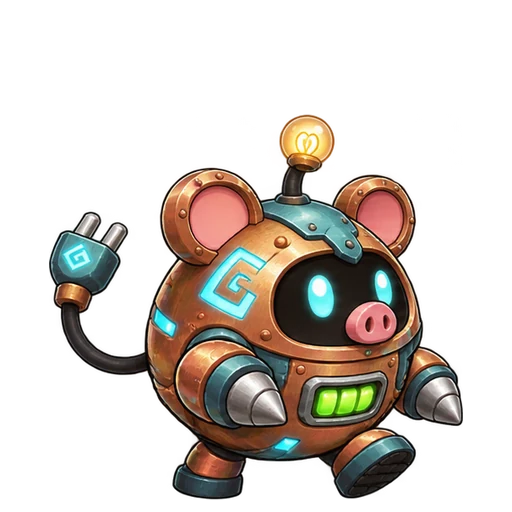
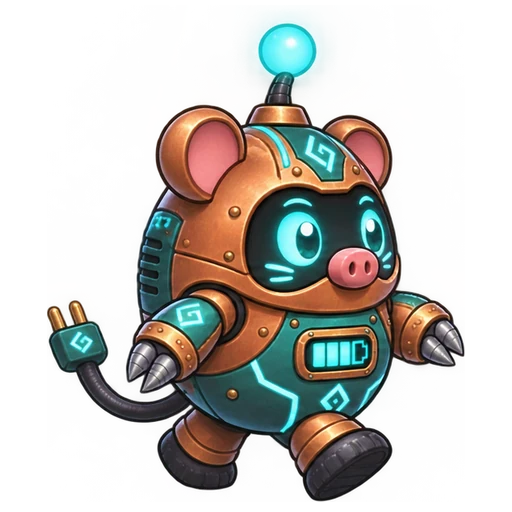
Digy: new walk frames (teal bulb)
Claude-Session: https://claude.ai/code/session_01PGxfpcX8yQ2dVm6AUd14bJ

diff --git a/game.js b/game.js
@@ -21162,7 +21162,7 @@ __eocLoaded = 50;
      (3 energy), comes out dirty with a haul for your vault, cleans himself and goes back to charge.
    · Active / Resting switch and renaming on the 🐾 Pets page.
    ===================================================================== */
-var DIGY_V = "2";   // bump when a Digy picture changes (browser cache)
+var DIGY_V = "3";   // bump when a Digy picture changes (browser cache)
 var DIGY_PRICE = { diamond: 50, ruby: 10 }, DIGY_LV = 3;   // 😊 Friendly with the Kragg
 var DIGY_FRAMES = ["idle-1", "idle-2", "walk-1", "walk-2", "walk-3", "walk-4", "dig-start", "dig-1", "dig-2", "dig-deep", "emerge", "dirty",
   "clean-1", "clean-2", "clean-3", "charge-low-1", "charge-low-2", "charge-mid", "charge-full", "wake", "happy", "petted", "annoyed"];

diff --git a/js/36b-digy.js b/js/36b-digy.js
@@ -7,7 +7,7 @@
      (3 energy), comes out dirty with a haul for your vault, cleans himself and goes back to charge.
    · Active / Resting switch and renaming on the 🐾 Pets page.
    ===================================================================== */
-const DIGY_V = "2";   // bump when a Digy picture changes (browser cache)
+const DIGY_V = "3";   // bump when a Digy picture changes (browser cache)
 const DIGY_PRICE = { diamond: 50, ruby: 10 }, DIGY_LV = 3;   // 😊 Friendly with the Kragg
 const DIGY_FRAMES = ["idle-1", "idle-2", "walk-1", "walk-2", "walk-3", "walk-4", "dig-start", "dig-1", "dig-2", "dig-deep", "emerge", "dirty",
   "clean-1", "clean-2", "clean-3", "charge-low-1", "charge-low-2", "charge-mid", "charge-full", "wake", "happy", "petted", "annoyed"];

diff --git a/index.html b/index.html
@@ -608,6 +608,6 @@
   <div id="tipCard" hidden role="status"></div>
   <div id="tutBubble" hidden role="dialog" aria-label="Guided start"></div>
   <!-- Game code, split by section. Files share one global scope and must load in this order. -->
-  <script src="game.js?v=4bce732a3f"></script>
+  <script src="game.js?v=ae99656c71"></script>
 </body>
 </html>
